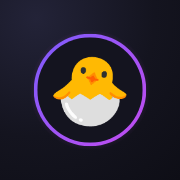
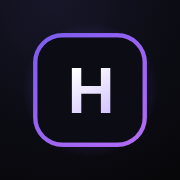
Rename the web app to Henry OS (#11)
* feat(web): searchable model picker with inline key entry

"Add model" used to drop in a default and leave you to type an id into
the header from memory. It now opens a picker that searches everything
reachable at once — OpenRouter's whole catalogue plus the direct-key
models — with each result tagged Ready or Needs key against the keys
already saved.

Choosing a model whose key is missing reveals that vendor's key field
inline, with where to get one; pasting it saves the key and adds the
model in a single step, and the vendor reads Ready from then on. A query
containing ":" or "/" (or one that matches nothing) also offers the id
verbatim, so an unlisted model is still reachable. Enter picks the top
result, then confirms.

Also fixes both dialogs rendering in the top-left corner: the global
margin reset had removed the UA centring for <dialog>.

* feat(web): give the phone its own layout

The small-screen view was the desktop layout squeezed down: sidebar
controls simply disappeared, dialogs opened as floating boxes, and text
inputs under 16px made iOS zoom the page on every focus.

Phones now get a shape of their own. The sidebar footer is replaced by a
bottom toolbar carrying the three controls actually reached for —
Council, Model, Settings — with Council lit while it is on. Dialogs
arrive as bottom sheets: full width, flush to the bottom edge, rounded
top corners with a grabber, and a slide-up. Every input is 16px so iOS
[…]

Changed region(s): [[0.1667, 0.1667, 0.8333, 0.8333], [0.2778, 0.3056, 0.7222, 0.7222]]

diff --git a/docs/index.html b/docs/index.html
@@ -3,13 +3,13 @@
 <head>
 <meta charset="utf-8" />
 <meta name="viewport" content="width=device-width, initial-scale=1, viewport-fit=cover" />
-<title>GodMode — one prompt, every AI</title>
+<title>Henry OS — one prompt, every AI</title>
 <meta name="theme-color" content="#07070a" />
 <link rel="manifest" href="manifest.webmanifest" />
 <meta name="mobile-web-app-capable" content="yes" />
 <meta name="apple-mobile-web-app-capable" content="yes" />
 <meta name="apple-mobile-web-app-status-bar-style" content="black-translucent" />
-<meta name="apple-mobile-web-app-title" content="GodMode" />
+<meta name="apple-mobile-web-app-title" content="Henry OS" />
 <link rel="apple-touch-icon" href="icon-180.png" />
 <link rel="icon" type="image/png" href="icon-512.png" />
 <style>
@@ -78,7 +78,9 @@
 		border-radius: 9px;
 		display: grid;
 		place-items: center;
-		font-size: 17px;
+		font-size: 15px;
+		font-weight: 800;
+		color: var(--vio-lift);
 		background: var(--vio-soft);
 		border: 1px solid rgba(123, 92, 240, 0.3);
 		flex: none;
@@ -665,6 +667,9 @@
 		display: grid;
 		place-items: center;
 		font-size: 32px;
+		font-weight: 800;
+		letter-spacing: -1px;
+		color: var(--vio-lift);
 		background: var(--vio-soft);
 		border: 1px solid rgba(123, 92, 240, 0.34);
 	}
@@ -857,8 +862,8 @@
 
 <div id="lock">
 	<form id="lockForm">
-		<div class="mark">🐣</div>
-		<div class="word">GodMode</div>
+		<div class="mark">H</div>
+		<div class="word">Henry OS</div>
 		<p class="sub">Enter your password to continue</p>
 		<div class="field">
 			<span class="lead">
@@ -880,8 +885,8 @@
 
 <aside>
 	<div class="brand">
-		<span class="mark">🐣</span>
-		<span class="word">GodMode</span>
+		<span class="mark">H</span>
+		<span class="word">Henry OS</span>
 	</div>
 	<nav id="railList"></nav>
 	<div class="sidefoot">
@@ -1204,7 +1209,7 @@ function backendFor(modelId) {
 			kind: 'openai',
 			url: API_BASE + '/chat/completions',
 			model: modelId,
-			headers: { Authorization: 'Bearer ' + store.key, 'Content-Type': 'application/json', 'X-Title': 'GodMode Web' },
+			headers: { Authorization: 'Bearer ' + store.key, 'Content-Type': 'application/json', 'X-Title': 'Henry OS' },
 		};
 	}
 	const [, vendor, model] = m;

diff --git a/README.md b/README.md
@@ -8,15 +8,17 @@ This is a dedicated chat browser that only does one thing: help you quickly acce
 
 Whatever is typed at the bottom is entered into all **web apps** simultaneously, however if you wish to explore one further than the other you can do so independently since they are just webviews.
 
-## 🌐 GodMode Web
+## 🌐 Henry OS (web + iPhone)
 
 There is also a browser version in [`docs/index.html`](docs/index.html) — a single
-self-contained HTML file with the same one-prompt-to-many-models experience.
-Because websites cannot embed the ChatGPT/Claude/Gemini web apps (those sites
-block iframes), the web version talks to models through the
-[OpenRouter](https://openrouter.ai) API instead: paste one API key and chat with
-GPT, Claude, Gemini, Grok, DeepSeek and 300+ other models side by side, with
-streaming responses. Your key is stored only in your browser.
+self-contained HTML file with the same one-prompt-to-many-models experience,
+installable to an iPhone home screen. Because websites cannot embed the
+ChatGPT/Claude/Gemini web apps (those sites block iframes), it talks to models
+over their APIs instead: add one [OpenRouter](https://openrouter.ai) key for
+300+ models, and/or your own OpenAI, Anthropic, Moonshot and Perplexity keys.
+Ask once and every model answers at the same time, then Claude writes a Council
+briefing — the combined answer, what each model said, and where they disagree.
+Keys are stored only in your browser.
 
 To host it free with GitHub Pages: repo **Settings → Pages → Deploy from a
 branch → `main` / `docs`**. Or run it on localhost with `npm run web`
